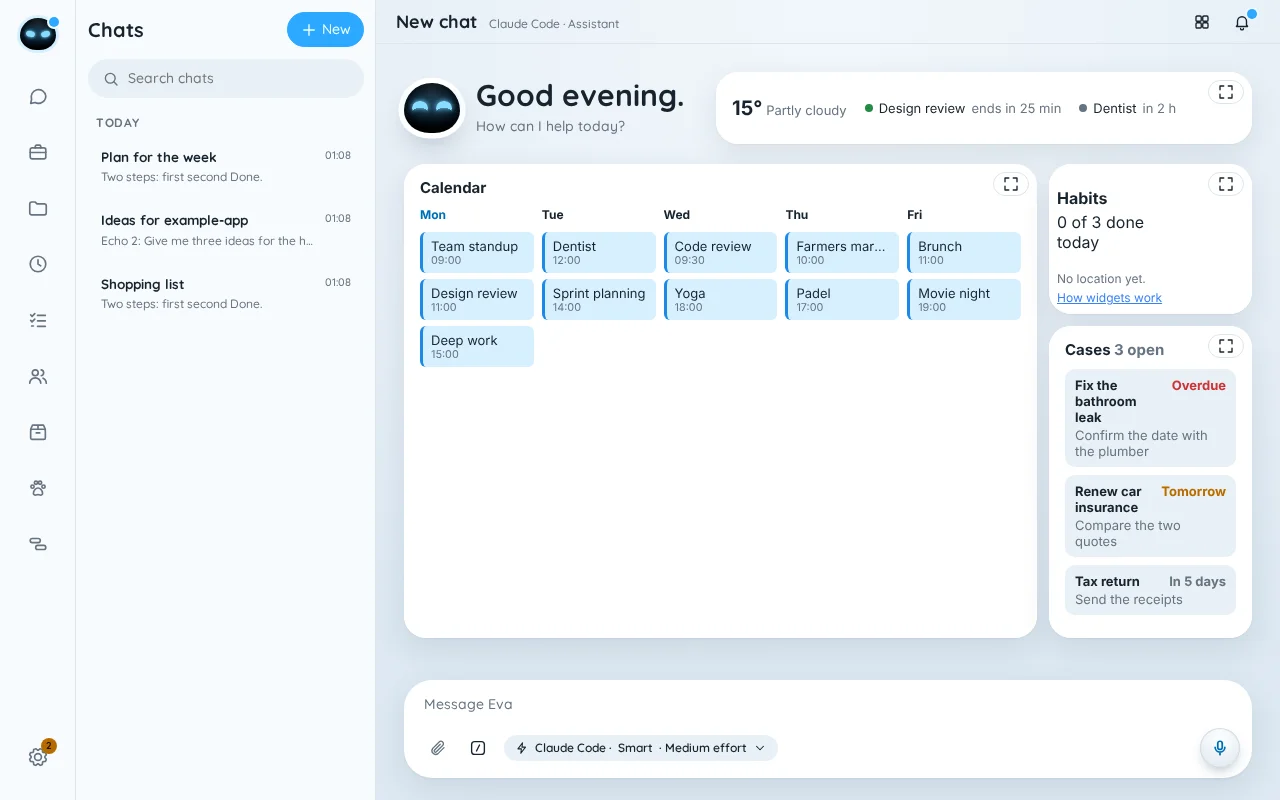
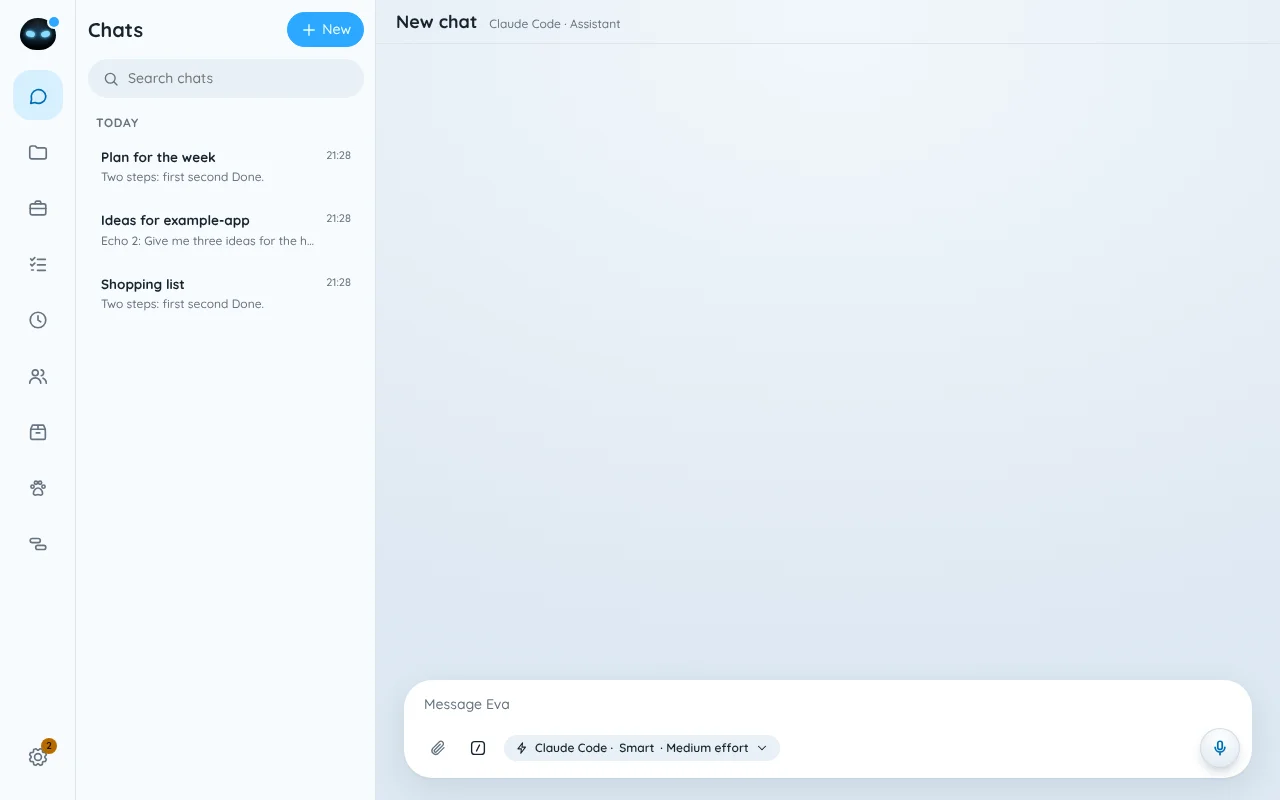
docs(design): capture the home page and the blank New chat page
The scene "new" showed the home page. It is now "home", and "new" shows
the blank New chat page of Chats, so the guide has a capture of each.

Refs #1037

Claude-Session: https://claude.ai/code/session_011Ysmyg8hNCGtKgG4cYw3ku

diff --git a/scripts/capture-design.ts b/scripts/capture-design.ts
@@ -229,7 +229,7 @@ const scenes: readonly Scene[] = [
     },
   },
   {
-    name: "new",
+    name: "home",
     // The home page that the visor opens, with the bell at its top right (#761). It is apart from the New chat page (#1037).
     // The address, not a tap: a tap would show a random playful face on the visor.
     show: async (page) => {
@@ -243,6 +243,14 @@ const scenes: readonly Scene[] = [
         .frameLocator('.widget-grid iframe[aria-label="Habits"]')
         .locator('.widget[data-ready="true"]')
         .waitFor();
+    },
+  },
+  {
+    name: "new",
+    // The blank New chat page of Chats (#1037): the title, the engine line and the message box.
+    show: async (page) => {
+      await openAddress(page, "#/chats/new", "New chat");
+      await page.locator(".composer-box").waitFor();
     },
   },
   { name: "chat", show: (page, _view, demo) => openChat(page, demo.weekChat) },

diff --git a/docs/design/eve/README.md b/docs/design/eve/README.md
@@ -271,7 +271,7 @@ Each page has a computer and a phone capture, in light and dark. The light captu
 
 ### Home
 
-![Computer](screenshots/new-computer-light.webp) ![Phone](screenshots/new-phone-light.webp)
+![Computer](screenshots/home-computer-light.webp) ![Phone](screenshots/home-phone-light.webp)
 
 - This is the home page, at `#/home`: a tap on the visor opens it from any page. It is a page of its own, with no chat list, apart from the New chat page.
 - The header has no title on screen. On a phone, a ☰ button at the top left opens a menu with every page, also the pages that the tab bar hides. The tabs come first, in the person's order. A computer's rail shows every page, so its home page has no menu.
@@ -285,6 +285,8 @@ Each page has a computer and a phone capture, in light and dark. The light captu
 - A message from this box makes a new chat and opens it in Chats.
 
 ### New chat
+
+![Computer](screenshots/new-computer-light.webp) ![Phone](screenshots/new-phone-light.webp)
 
 - Chats > New chat opens a blank page at `#/chats/new`: the title "New chat", the engine and the mode under it, and the message box. It has no greeting, no suggestions and no widgets.
 - With no engine or no vault, the page names the missing step, as the home page does.
